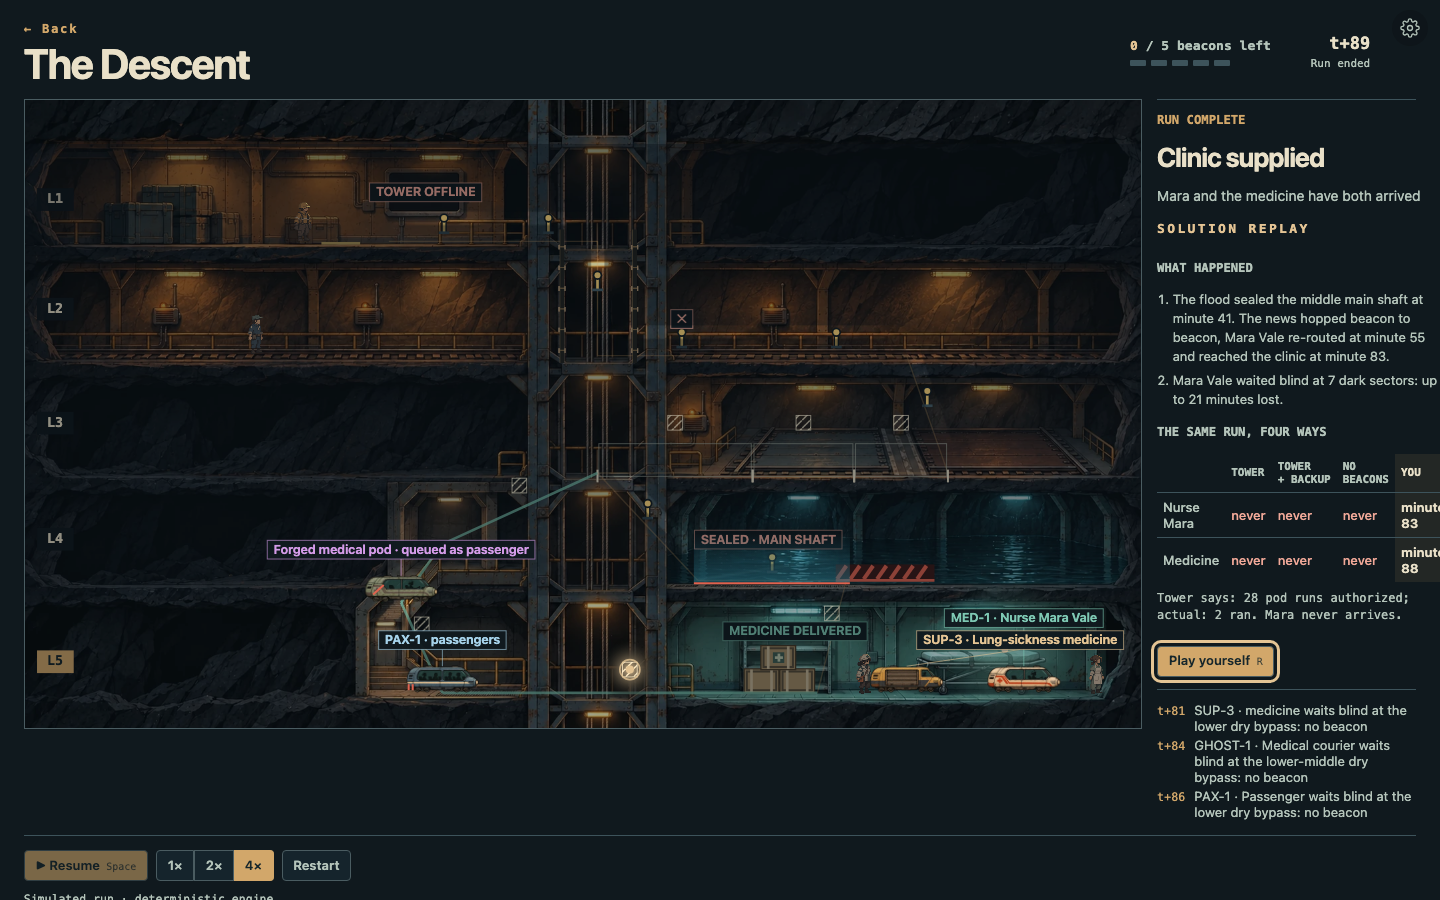
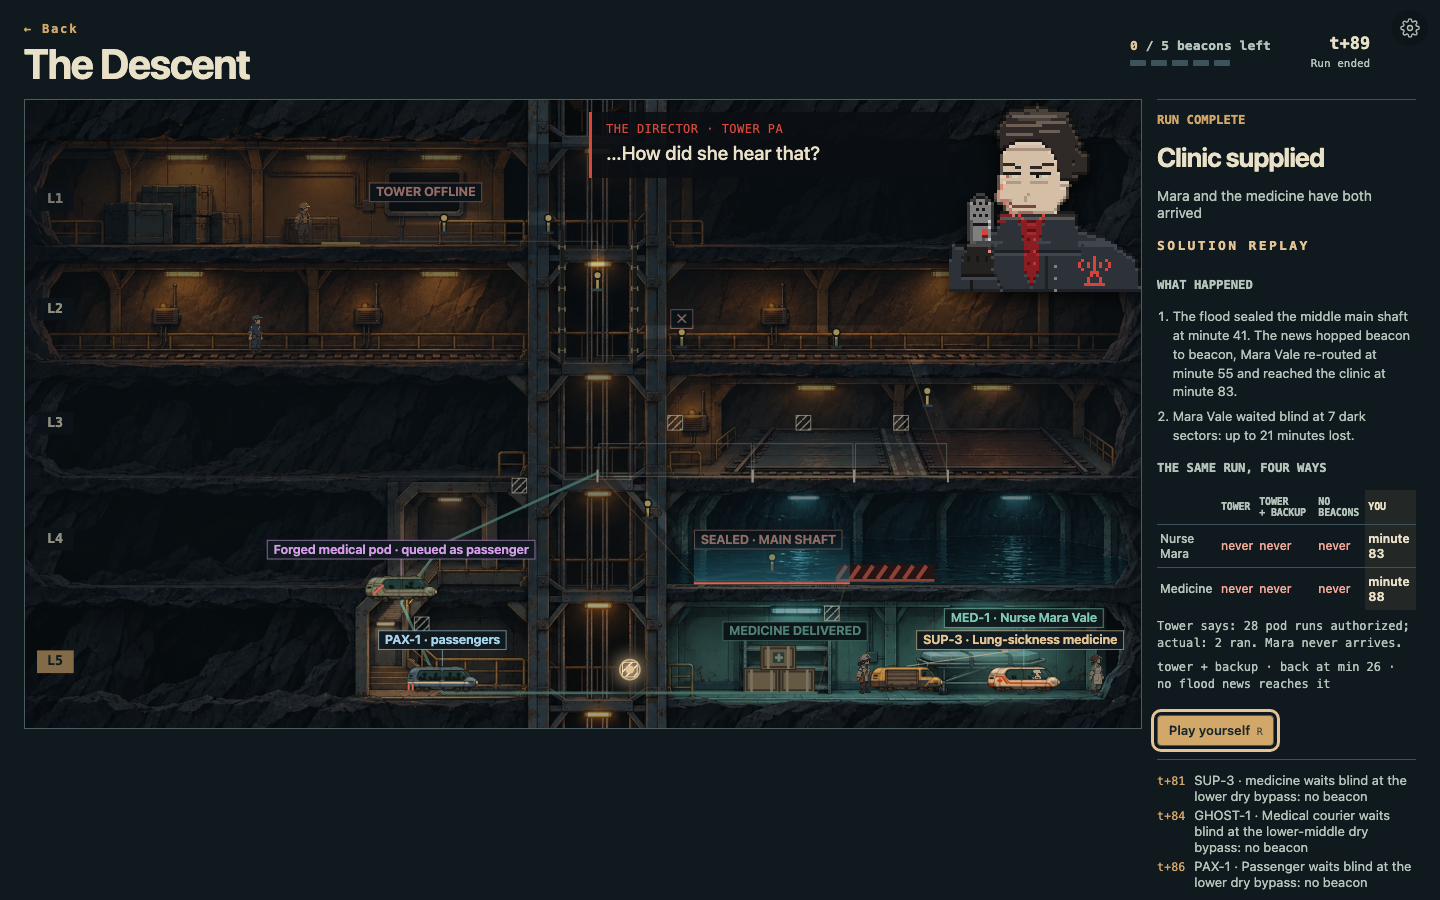
Wire tower+backup column, replay flag, Hollow theme labels

diff --git a/hollow-world/src/echo-view/cutaway/live/intro-debrief.css b/hollow-world/src/echo-view/cutaway/live/intro-debrief.css
@@ -11,9 +11,9 @@
 .descent-live .live-debrief2 h3 { margin-top: 8px; }
 .descent-live .live-margin { color: var(--head); font-weight: 600; }
 .descent-live .live-why { padding-left: 1.2em; display: grid; gap: 6px; color: var(--text2); font-size: 13px; line-height: 1.45; }
-.descent-live .live-compare { width: 100%; border-collapse: collapse; font-size: 13px; }
-.descent-live .live-compare th, .descent-live .live-compare td { padding: 6px 6px; border-top: 1px solid var(--line); text-align: left; font-weight: 500; color: var(--text2); }
-.descent-live .live-compare thead th { color: var(--text2); font: 650 11px var(--mono); text-transform: uppercase; border-top: 0; }
+.descent-live .live-compare { width: 100%; border-collapse: collapse; font-size: 12px; }
+.descent-live .live-compare th, .descent-live .live-compare td { padding: 6px 3px; border-top: 1px solid var(--line); text-align: left; font-weight: 500; color: var(--text2); }
+.descent-live .live-compare thead th { color: var(--text2); font: 650 10px var(--mono); letter-spacing: -.02em; text-transform: uppercase; border-top: 0; }
 .descent-live .live-compare .you { color: var(--head); background: #d2a76a1a; font-weight: 650; }
 .descent-live .live-compare td.never { color: var(--redText); }
 .descent-live .live-compare td.you.never { color: var(--redText); }

diff --git a/hollow-world/src/echo-view/cutaway/live/LiveDebrief.tsx b/hollow-world/src/echo-view/cutaway/live/LiveDebrief.tsx
@@ -2,6 +2,7 @@
 // three baseline runs and the explanation come from src/echo (runBaseline, explainRun). Mounted by LiveScreen (see WIRING-INTRO-DEBRIEF.md).
 import { useMemo } from "react";
 import { runBaseline, type RunOutcome } from "../../../echo/baseline";
+import { STANDBY_AFTER } from "../../../echo/tower";
 import { explainRun } from "../../../echo/explain";
 import type { Command, Mission } from "../../../echo/types";
 import { placeName, plainText } from "./names";
@@ -74,6 +75,7 @@ export function LiveDebrief({ mission, commands, stars, onRetry, onNext, onWatch
         </tbody>
       </table>
       <p className="live-tower-says">{base.towerSays}</p>
+      <p className="live-tower-says live-backup">tower + backup · back at min {mission.towerDownAt + STANDBY_AFTER} · no flood news reaches it</p>
       {hint && !replay && <p className="live-next"><strong>Next star:</strong> {hint}</p>}
       {stars >= 3 && !replay && <p className="live-next"><strong>Best possible run.</strong></p>}
       {note && <p className="live-next">{note}</p>}
